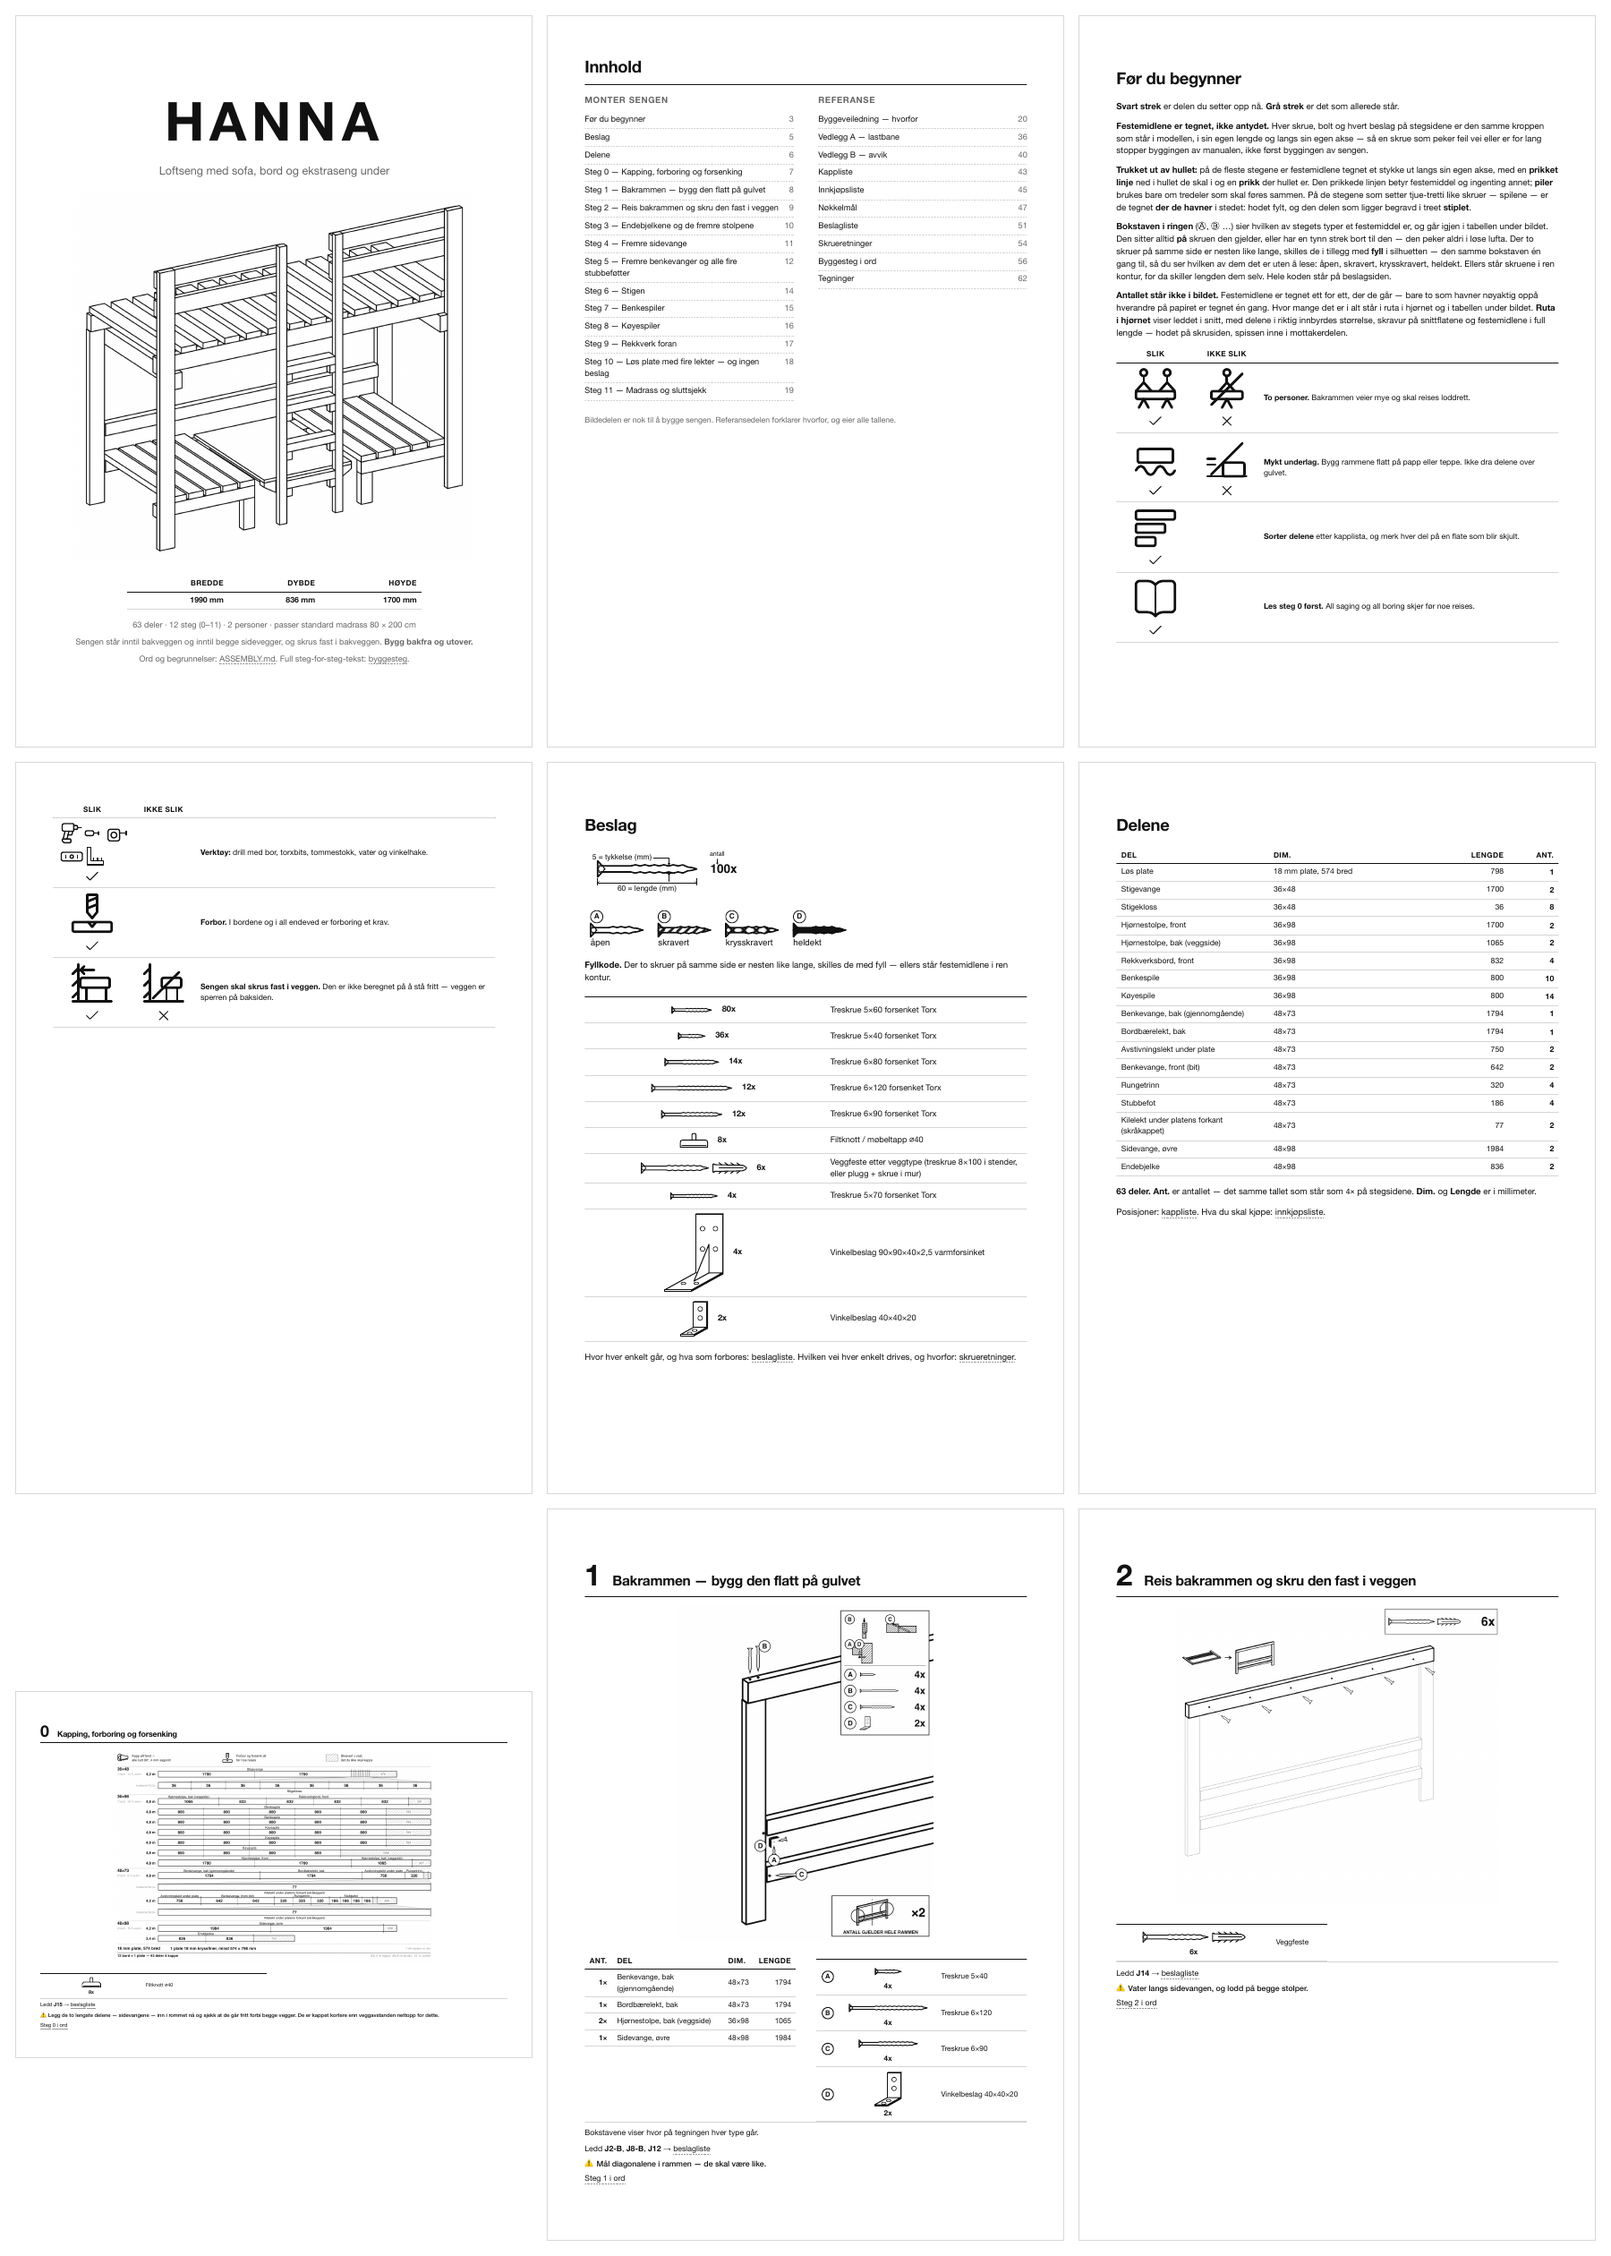
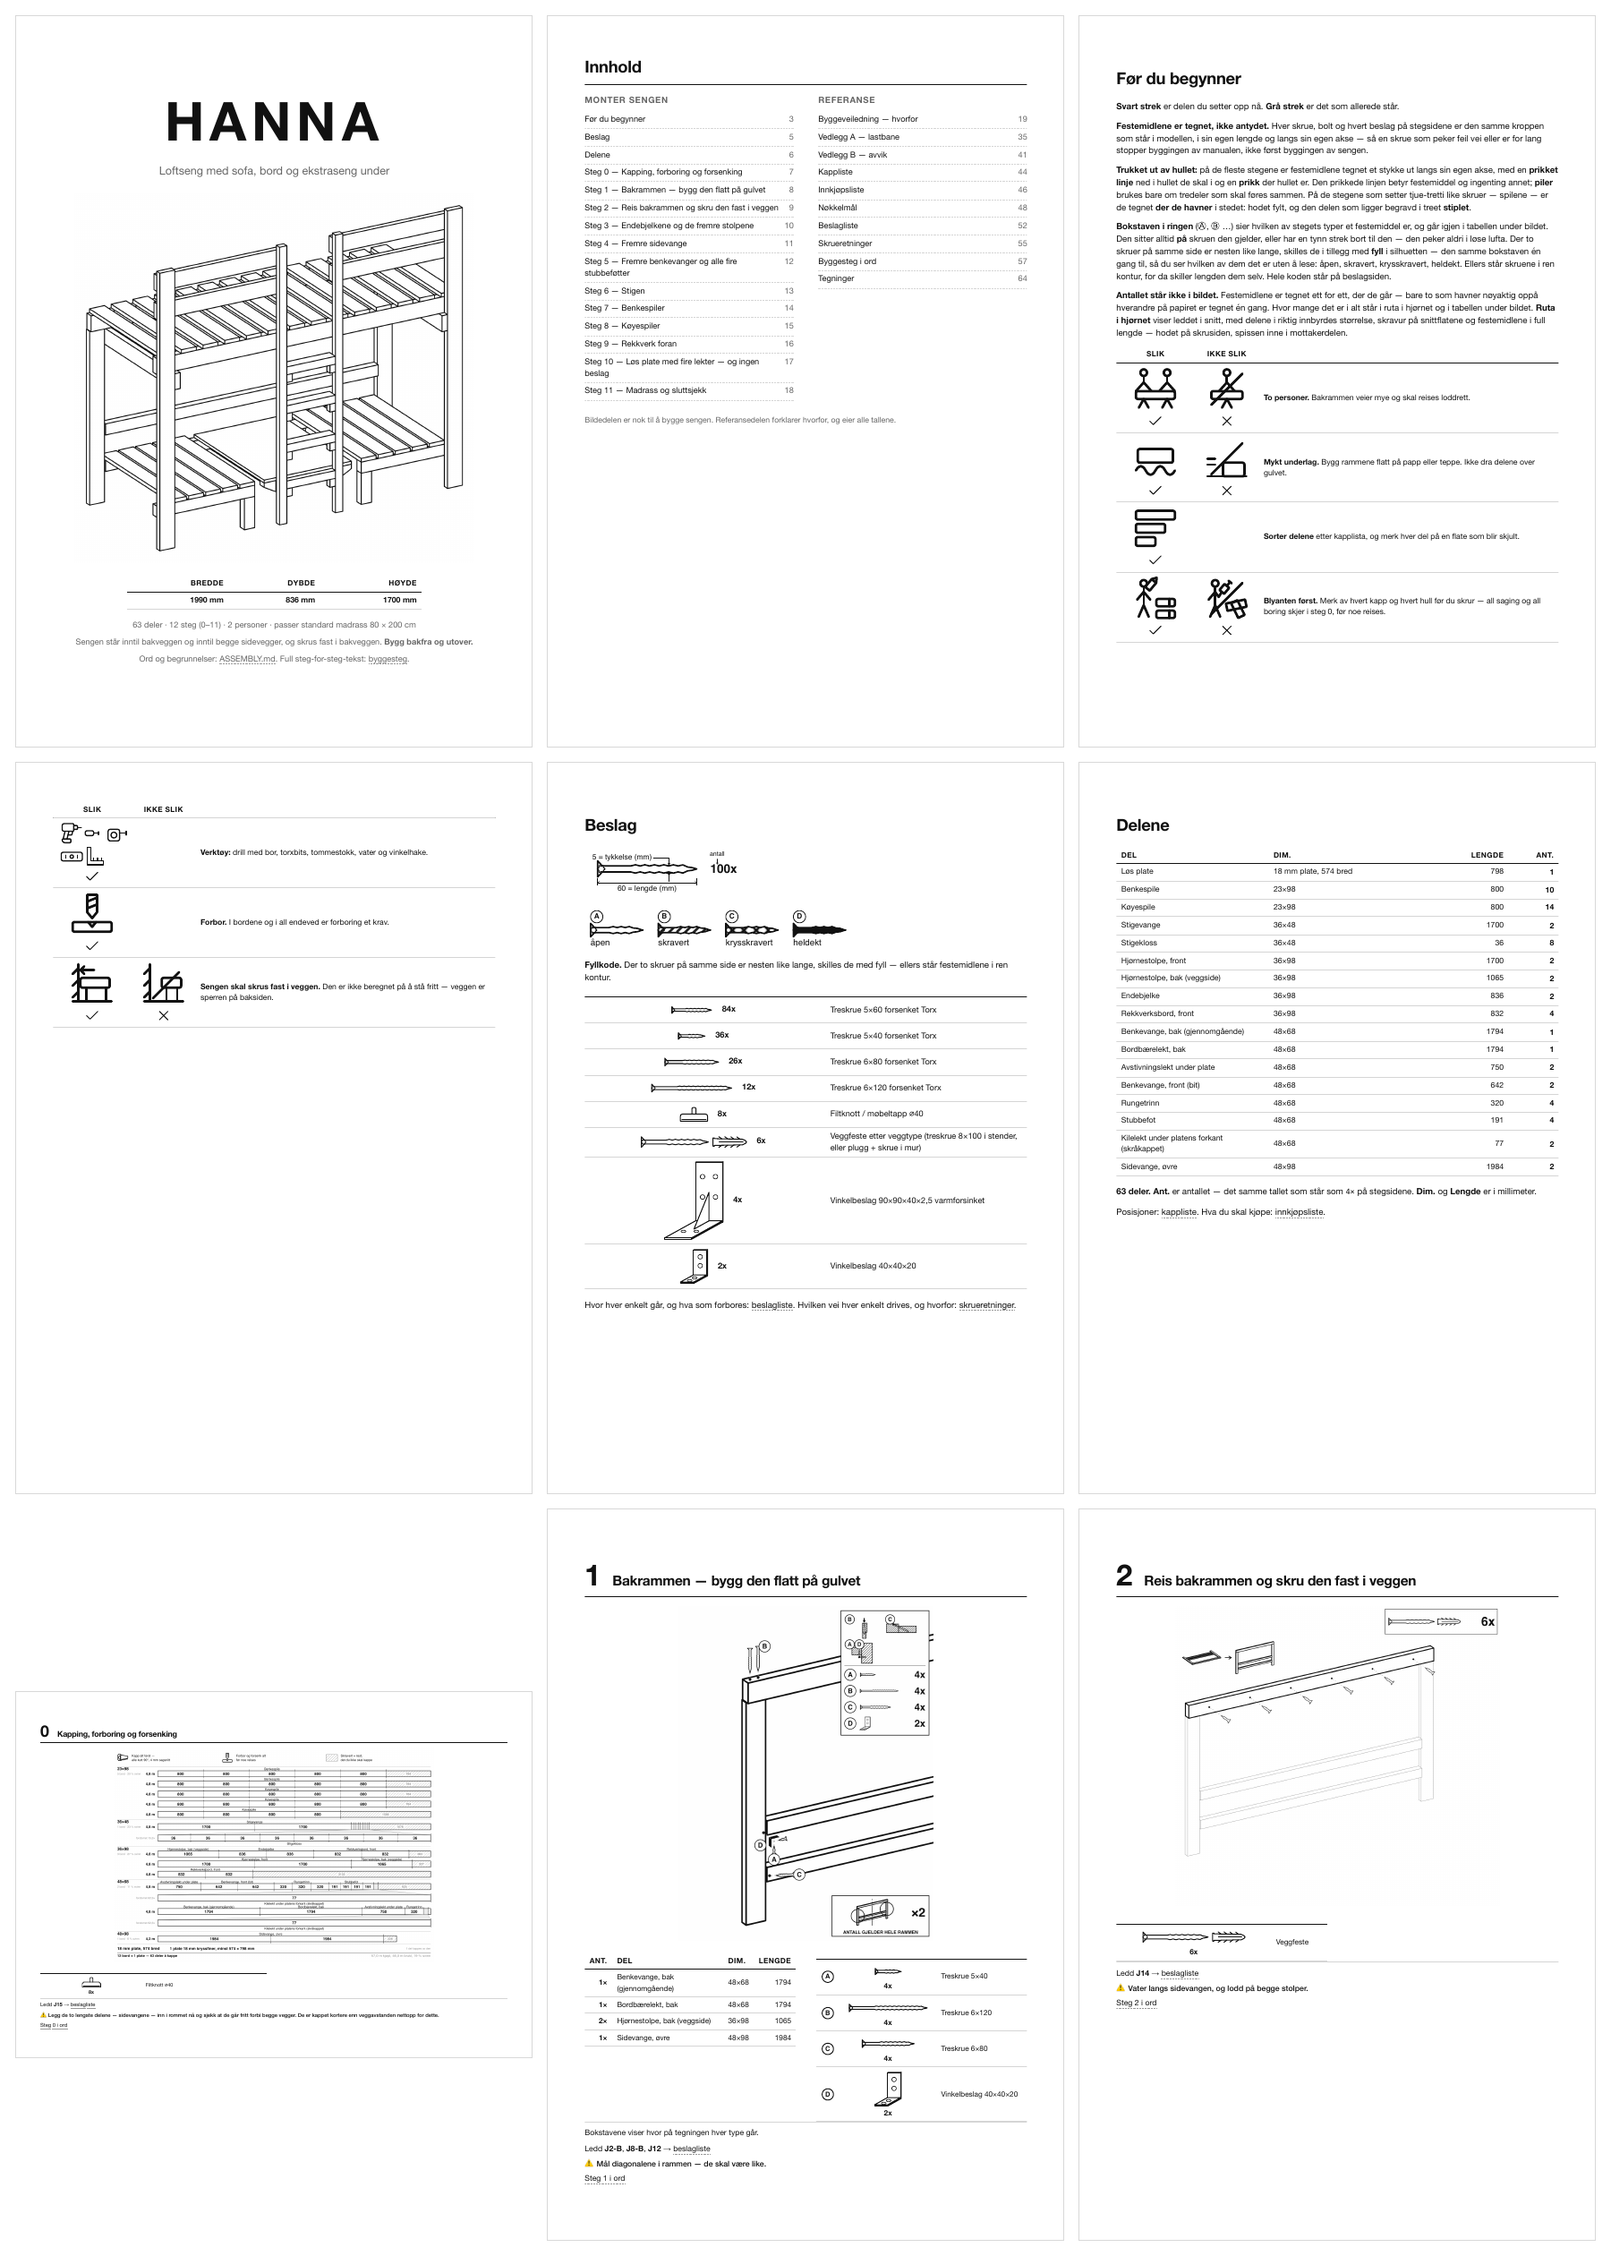
piktogram: blyanten bak øret — merk og forbor før du skrur
«Før du begynner» hadde en rad som sa steg 0-regelen med ord og et bokikon:
«Les steg 0 først. All saging og all boring skjer før noe reises.» Budskapet
var riktig, bildet sa ingenting, og raden hadde ingen IKKE SLIK ved siden av
seg. Nå står regelen i bildet.

SLIK: figuren med blyanten bak øret, delene liggende ryddig og merket foran
seg. IKKE SLIK (krysset): den samme figuren med skrutrekkeren klar i hånda og
delene i en haug. Blyanten er tegnet som en spisset kropp med bruddstreken der
spissingen begynner — en bar strek ved hodet leste som en arm, og det er prøvd
på 12 og 17 mm før formen ble valgt. Skrutrekkeren er den samme kroppen som i
verktøypanelet: skaft, tange, tverrstrek i tuppen.

Raden erstatter bokraden i stedet for å komme i tillegg til den — den sier det
samme og mer, og to rader om steg 0 er én for mye. lucide/book-open følger med
ut av katalogen etter regelen i PRAKSIS §4: der ligger bare det PICTOGRAMS
faktisk slår opp.

«Sorter delene»-raden står som før; den handler om å merke DELENE på en skjult
flate, denne om å merke AV kapp og hull. Ulike operasjoner, ulike rader.

check: 114 artefakter (112 - les.svg/.png + to nye piktogrammer i .svg og
.png). README-tallet fulgt etter. Filmene urørt — parts.tsv er ikke rørt.

diff --git a/prosjekter/hanna/tools/gen_glyphs.py b/prosjekter/hanna/tools/gen_glyphs.py
@@ -1045,7 +1045,13 @@ PICTOGRAMS: dict[str, tuple[str, object]] = {
     "underlag": ("Mykt underlag under delene", "hanna/underlag"),
     "dra-nei": ("Ikke dra delene over gulvet", "hanna/dra-nei"),
     "sorter": ("Sorter delene før du starter", "hanna/sorter"),
-    "les": ("Les veiledningen først", "lucide/book-open"),
+    # Steg 0-regelen tegnet: blyanten bak øret og delene merket, mot
+    # skrutrekkeren i hånda og delene i en haug. Den avløste bokikonet
+    # ("les steg 0 først"), som sa det samme uten å vise det - og lucide/
+    # book-open fulgte med ut av katalogen, etter regelen over.
+    "blyant-foerst": ("Merk av før du skrur", "hanna/blyant-foerst"),
+    "skrutrekker-foerst-nei": ("Ikke start med skrutrekkeren",
+                               "hanna/skrutrekker-foerst-nei"),
     # V5: the spanner is gone with the last threaded fastener - there is
     # nothing in this bed to put a 10 mm nut on, and a tool panel that shows
     # one is a tool panel that sends somebody looking for it.

diff --git a/prosjekter/hanna/tools/gen_doc_tables.py b/prosjekter/hanna/tools/gen_doc_tables.py
@@ -1480,8 +1480,12 @@ PREP = [
     ("sorter", None,
      "**Sorter delene** etter kapplista, og merk hver del på en flate som "
      "blir skjult."),
-    ("les", None,
-     "**Les steg 0 først.** All saging og all boring skjer før noe reises."),
+    # Denne raden avløste "Les steg 0 først" med bokikonet. Budskapet var det
+    # samme - alt kappes og bores før noe reises - men det stod bare i teksten;
+    # nå står det i bildet, og paret har fått den IKKE SLIK-en boka aldri hadde.
+    ("blyant-foerst", "skrutrekker-foerst-nei",
+     "**Blyanten først.** Merk av hvert kapp og hvert hull før du skrur — "
+     "all saging og all boring skjer i steg 0, før noe reises."),
     ("verktoy", None,
      "**Verktøy:** drill med bor, torxbits, tommestokk, vater og "
      "vinkelhake."),

diff --git a/prosjekter/hanna/README.md b/prosjekter/hanna/README.md
@@ -39,7 +39,7 @@ hvert merke står på det festemiddelet det navngir.*
 | **Trevirke** | **63 stykker** i **5 dimensjoner** pluss én 18 mm kryssfinerplate — 46,8 løpemeter. 24 av de 63 stykkene er ett og samme stykke: spilen, 23×98 × 800 mm, kappet i én innstilling |
 | **Stål** | **170 festemidler fordelt på 17 ledd**, **164 av dem modellert som solide kropper** — hode, forsenking, skaft og spiss, hver med sin egen drivvektor. **Ikke ett eneste hode står i en romvendt flate**, og det er en assert |
 | **Kontroller** | **389 asserter i modellen** og 57 til i verktøyene, alle sammen stopper bygget. Skrueretningene er utledet av fysikk (5 av 21 er tvunget av tykkelsene alene); antall skruer må få plass på flaten de står på; hver del må røre resten av sengen og kollidere med ingenting |
-| **Determinisme** | `mise run check` kjører hele kjeden to ganger og krever **112 byte-identiske artefakter** — de tre filmene inkludert, pluss et hash-stempel som feller porten hvis en film er eldre enn modellen den viser. Determinismen er en assert, ikke en forventning |
+| **Determinisme** | `mise run check` kjører hele kjeden to ganger og krever **114 byte-identiske artefakter** — de tre filmene inkludert, pluss et hash-stempel som feller porten hvis en film er eldre enn modellen den viser. Determinismen er en assert, ikke en forventning |
 | **Ut av det** | En **trykkeklar PDF på 68 sider** med én kommando, pluss en ren billedmanual, en skrevet byggeveiledning, seks skjemategninger og eksport til STEP / STL / GLB / USDZ |
 | **Standarder** | Klaringer, rekkverkshøyder og vinduet for madrasstykkelse kommer av EN 747; kantavstander og skrueavstander av Eurokode 5 |
 
@@ -154,7 +154,7 @@ mise run pdf        # docs/hanna.pdf, 68 sider, trykkeklar
 | `build` | Bygger og validerer modellen, eksporterer den, skriver hvert fragment i `docs/generated/` og `docs/MONTERING.md` |
 | `build-full` | Det samme pluss det tunge: `.glb` og skjult-linje-projeksjonene av hele modellen |
 | `montering` | Tegner forsiden og én strektegning per byggesteg til `docs/img/` |
-| `check` | Determinismeasserten: to fulle kjøringer, 112 artefakter, byte-identisk eller feil |
+| `check` | Determinismeasserten: to fulle kjøringer, 114 artefakter, byte-identisk eller feil |
 | `pdf` | Setter sammen `docs/hanna.pdf` av de innsjekkede dokumentene (trenger ikke build123d) |
 | `schematics` | Rendrer `docs/schematics/*.svg` til PNG for korrektur |
 | `usdz` | Konverterer nettene til `.usdz` for Quick Look / Xcode / AR, ett materiale per fargegruppe |
@@ -238,5 +238,5 @@ and all 68 pages of the printed assembly manual are generated from the solids
 and machine-checked before they are allowed to exist, so nothing is hand-drawn
 and no number is hand-transcribed. The documentation is in Norwegian, because
 that is what someone standing at the saw actually reads. The proofs run in CI:
-`mise run check` builds the whole chain twice and demands 112 byte-identical
+`mise run check` builds the whole chain twice and demands 114 byte-identical
 artefacts, and the badge at the top of this page is that gate.

diff --git a/prosjekter/hanna/docs/MONTERING.md b/prosjekter/hanna/docs/MONTERING.md
@@ -37,7 +37,7 @@ Ord og begrunnelser: [ASSEMBLY.md](ASSEMBLY.md). Full steg-for-steg-tekst: [bygg
 | <img src="img/ikon/to-personer.svg" alt="to-personer" height="72"> <img src="img/ikon/hake.svg" alt="ja" height="26"> | <img src="img/ikon/en-person-nei.svg" alt="en-person-nei" height="72"> <img src="img/ikon/kryss.svg" alt="nei" height="26"> | **To personer.** Bakrammen veier mye og skal reises loddrett. |
 | <img src="img/ikon/underlag.svg" alt="underlag" height="72"> <img src="img/ikon/hake.svg" alt="ja" height="26"> | <img src="img/ikon/dra-nei.svg" alt="dra-nei" height="72"> <img src="img/ikon/kryss.svg" alt="nei" height="26"> | **Mykt underlag.** Bygg rammene flatt på papp eller teppe. Ikke dra delene over gulvet. |
 | <img src="img/ikon/sorter.svg" alt="sorter" height="72"> <img src="img/ikon/hake.svg" alt="ja" height="26"> |  | **Sorter delene** etter kapplista, og merk hver del på en flate som blir skjult. |
-| <img src="img/ikon/les.svg" alt="les" height="72"> <img src="img/ikon/hake.svg" alt="ja" height="26"> |  | **Les steg 0 først.** All saging og all boring skjer før noe reises. |
+| <img src="img/ikon/blyant-foerst.svg" alt="blyant-foerst" height="72"> <img src="img/ikon/hake.svg" alt="ja" height="26"> | <img src="img/ikon/skrutrekker-foerst-nei.svg" alt="skrutrekker-foerst-nei" height="72"> <img src="img/ikon/kryss.svg" alt="nei" height="26"> | **Blyanten først.** Merk av hvert kapp og hvert hull før du skrur — all saging og all boring skjer i steg 0, før noe reises. |
 | <img src="img/ikon/verktoy.svg" alt="verktoy" height="72"> <img src="img/ikon/hake.svg" alt="ja" height="26"> |  | **Verktøy:** drill med bor, torxbits, tommestokk, vater og vinkelhake. |
 | <img src="img/ikon/forbor.svg" alt="forbor" height="72"> <img src="img/ikon/hake.svg" alt="ja" height="26"> |  | **Forbor.** I bordene og i all endeved er forboring et krav. |
 | <img src="img/ikon/veggfeste-ja.svg" alt="veggfeste-ja" height="72"> <img src="img/ikon/hake.svg" alt="ja" height="26"> | <img src="img/ikon/fritt-staaende-nei.svg" alt="fritt-staaende-nei" height="72"> <img src="img/ikon/kryss.svg" alt="nei" height="26"> | **Sengen skal skrus fast i veggen.** Den er ikke beregnet på å stå fritt — veggen er sperren på baksiden. |

diff --git a/prosjekter/hanna/docs/PRAKSIS.md b/prosjekter/hanna/docs/PRAKSIS.md
@@ -556,7 +556,8 @@ ble avgjort i: `docs/preview/krop-steg1-v3.png` og `krop-steg5-v3.png`.
   ingenting annet. Et ikon som ikke står i den tabellen skal ut av katalogen —
   ellers vokser den til et halvt ikonbibliotek som ingen bygger leser og ingen
   lisensfil dekker meningsfullt. (Fem ubrukte ble slettet i denne runden:
-  `baby`, `hammer`, `pencil`, `person-standing`, `phone`.)
+  `baby`, `hammer`, `pencil`, `person-standing`, `phone`. `book-open` gikk
+  samme vei da «blyanten først» avløste «les steg 0 først»-raden.)
 * **Merkebokstavene** er ett tegn i en sirkel, samme radius overalt.
 * **De kodede glyfene.** Der et steg koder festemidlene sine, skrives
   skrueglyfen også i sin egen fyllkode (`treskrue-5x70-hatch.svg`), og det er
